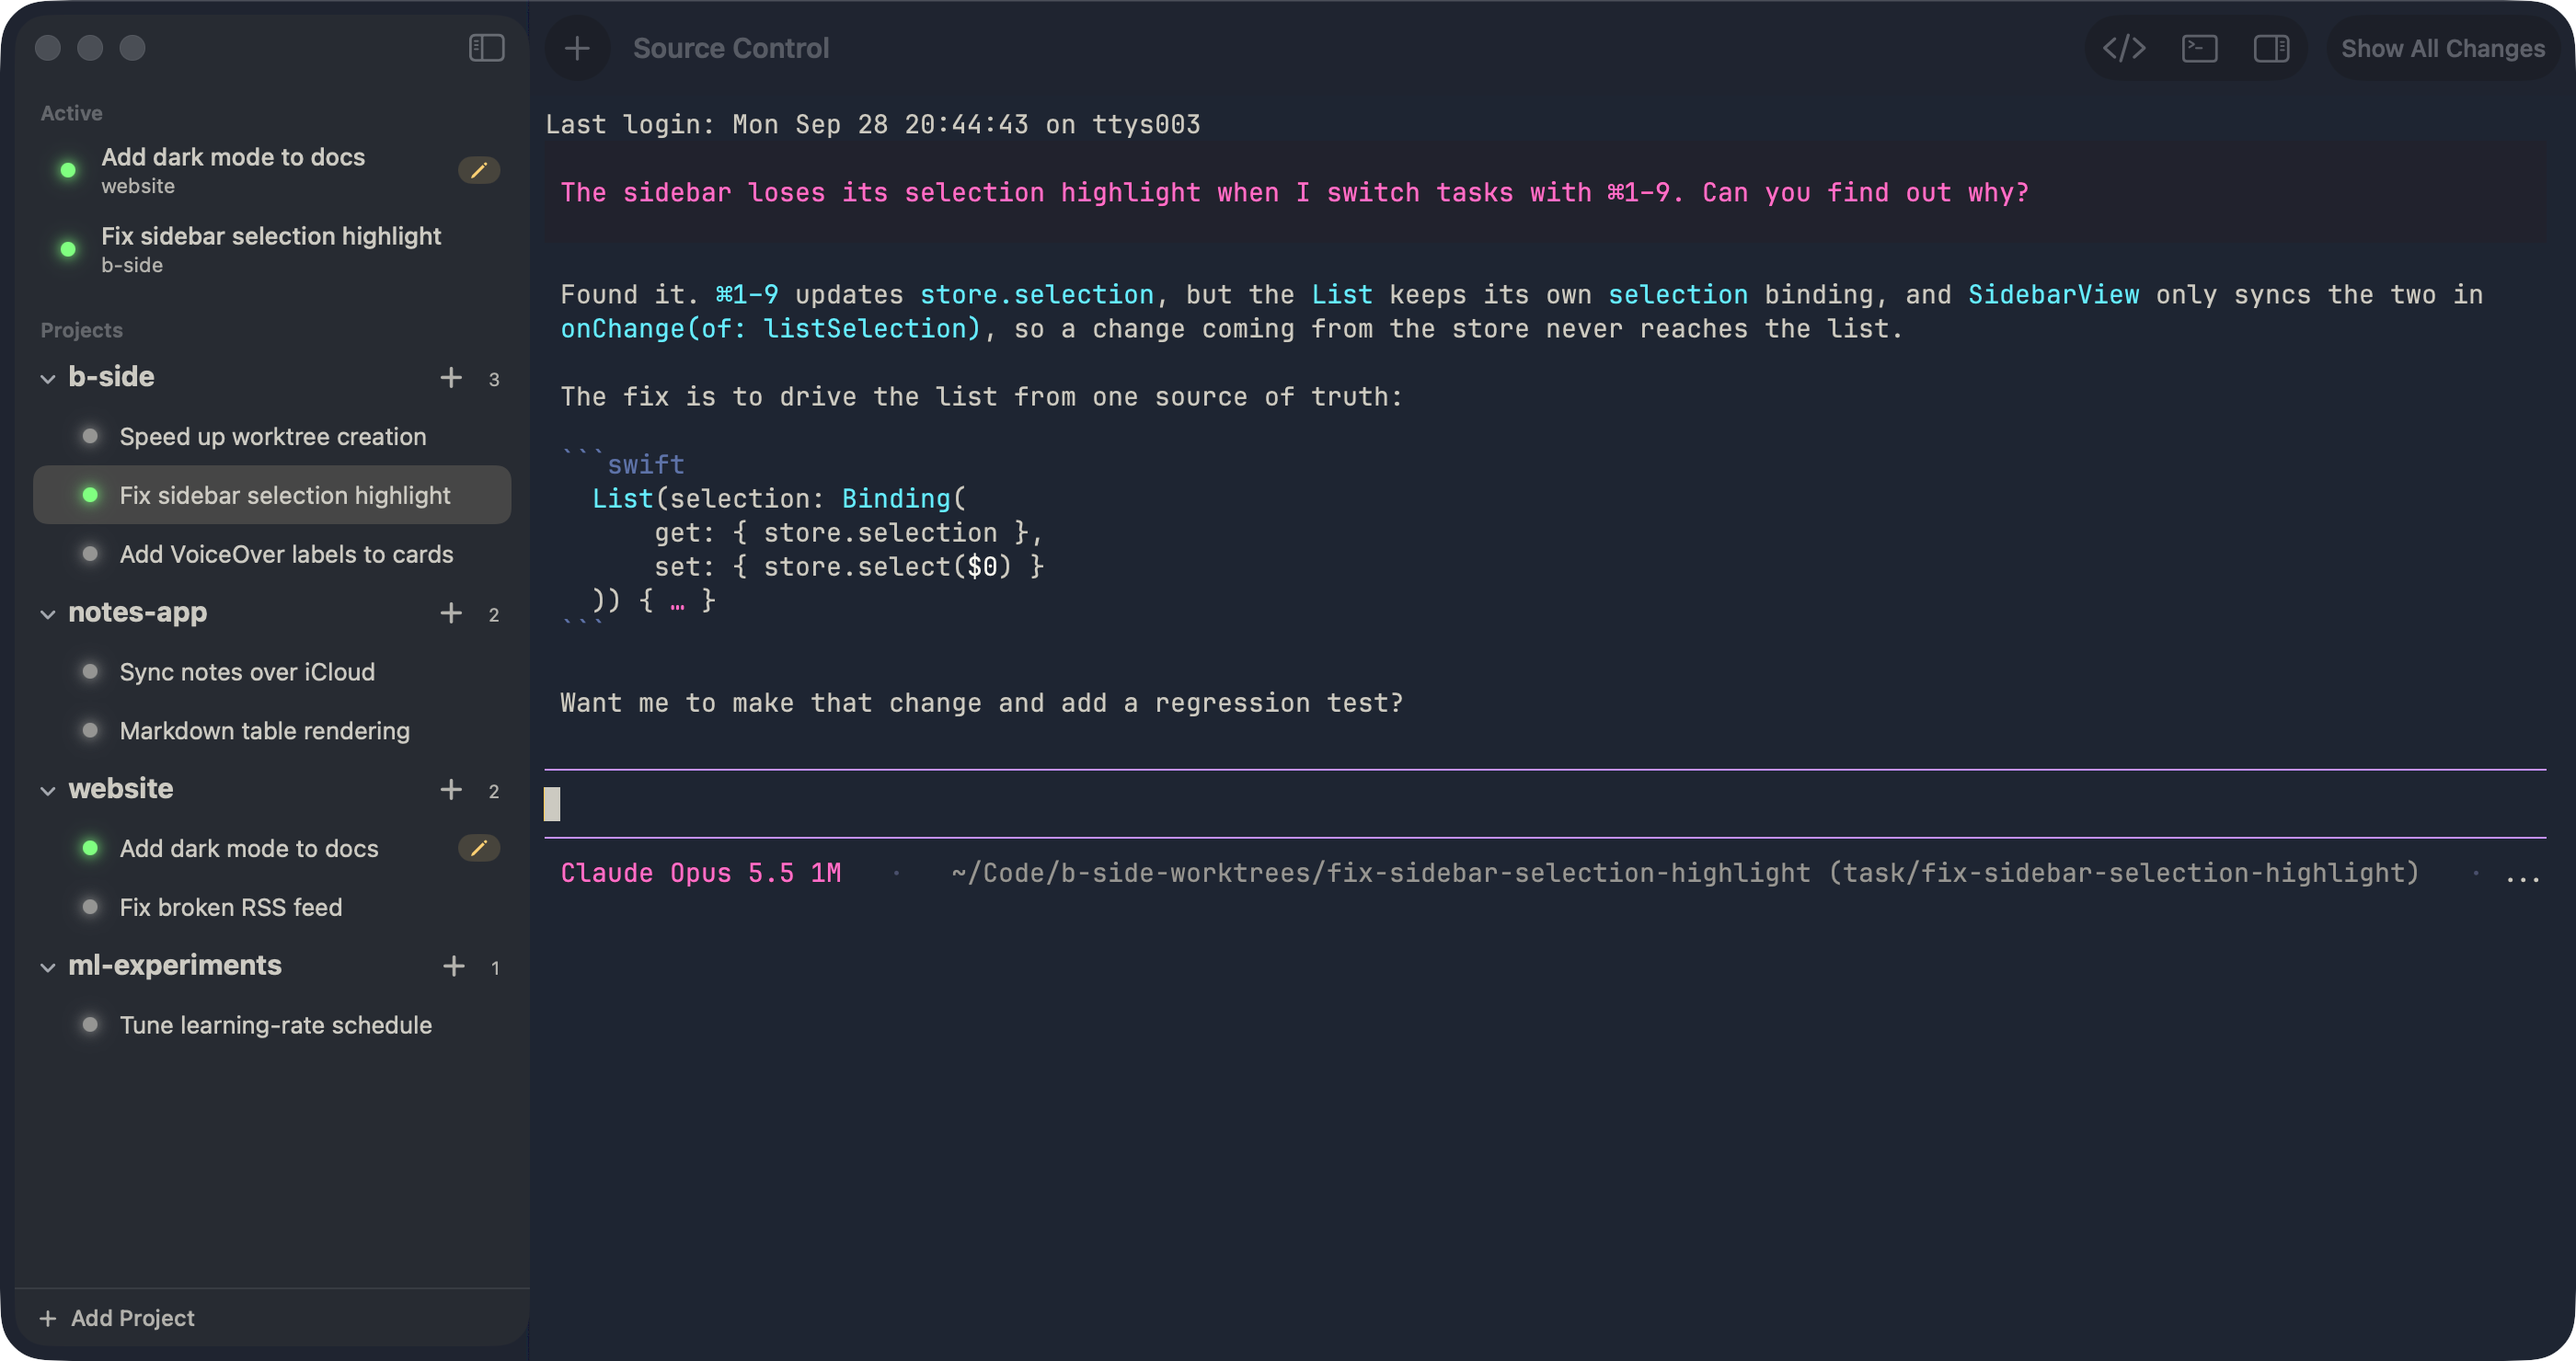
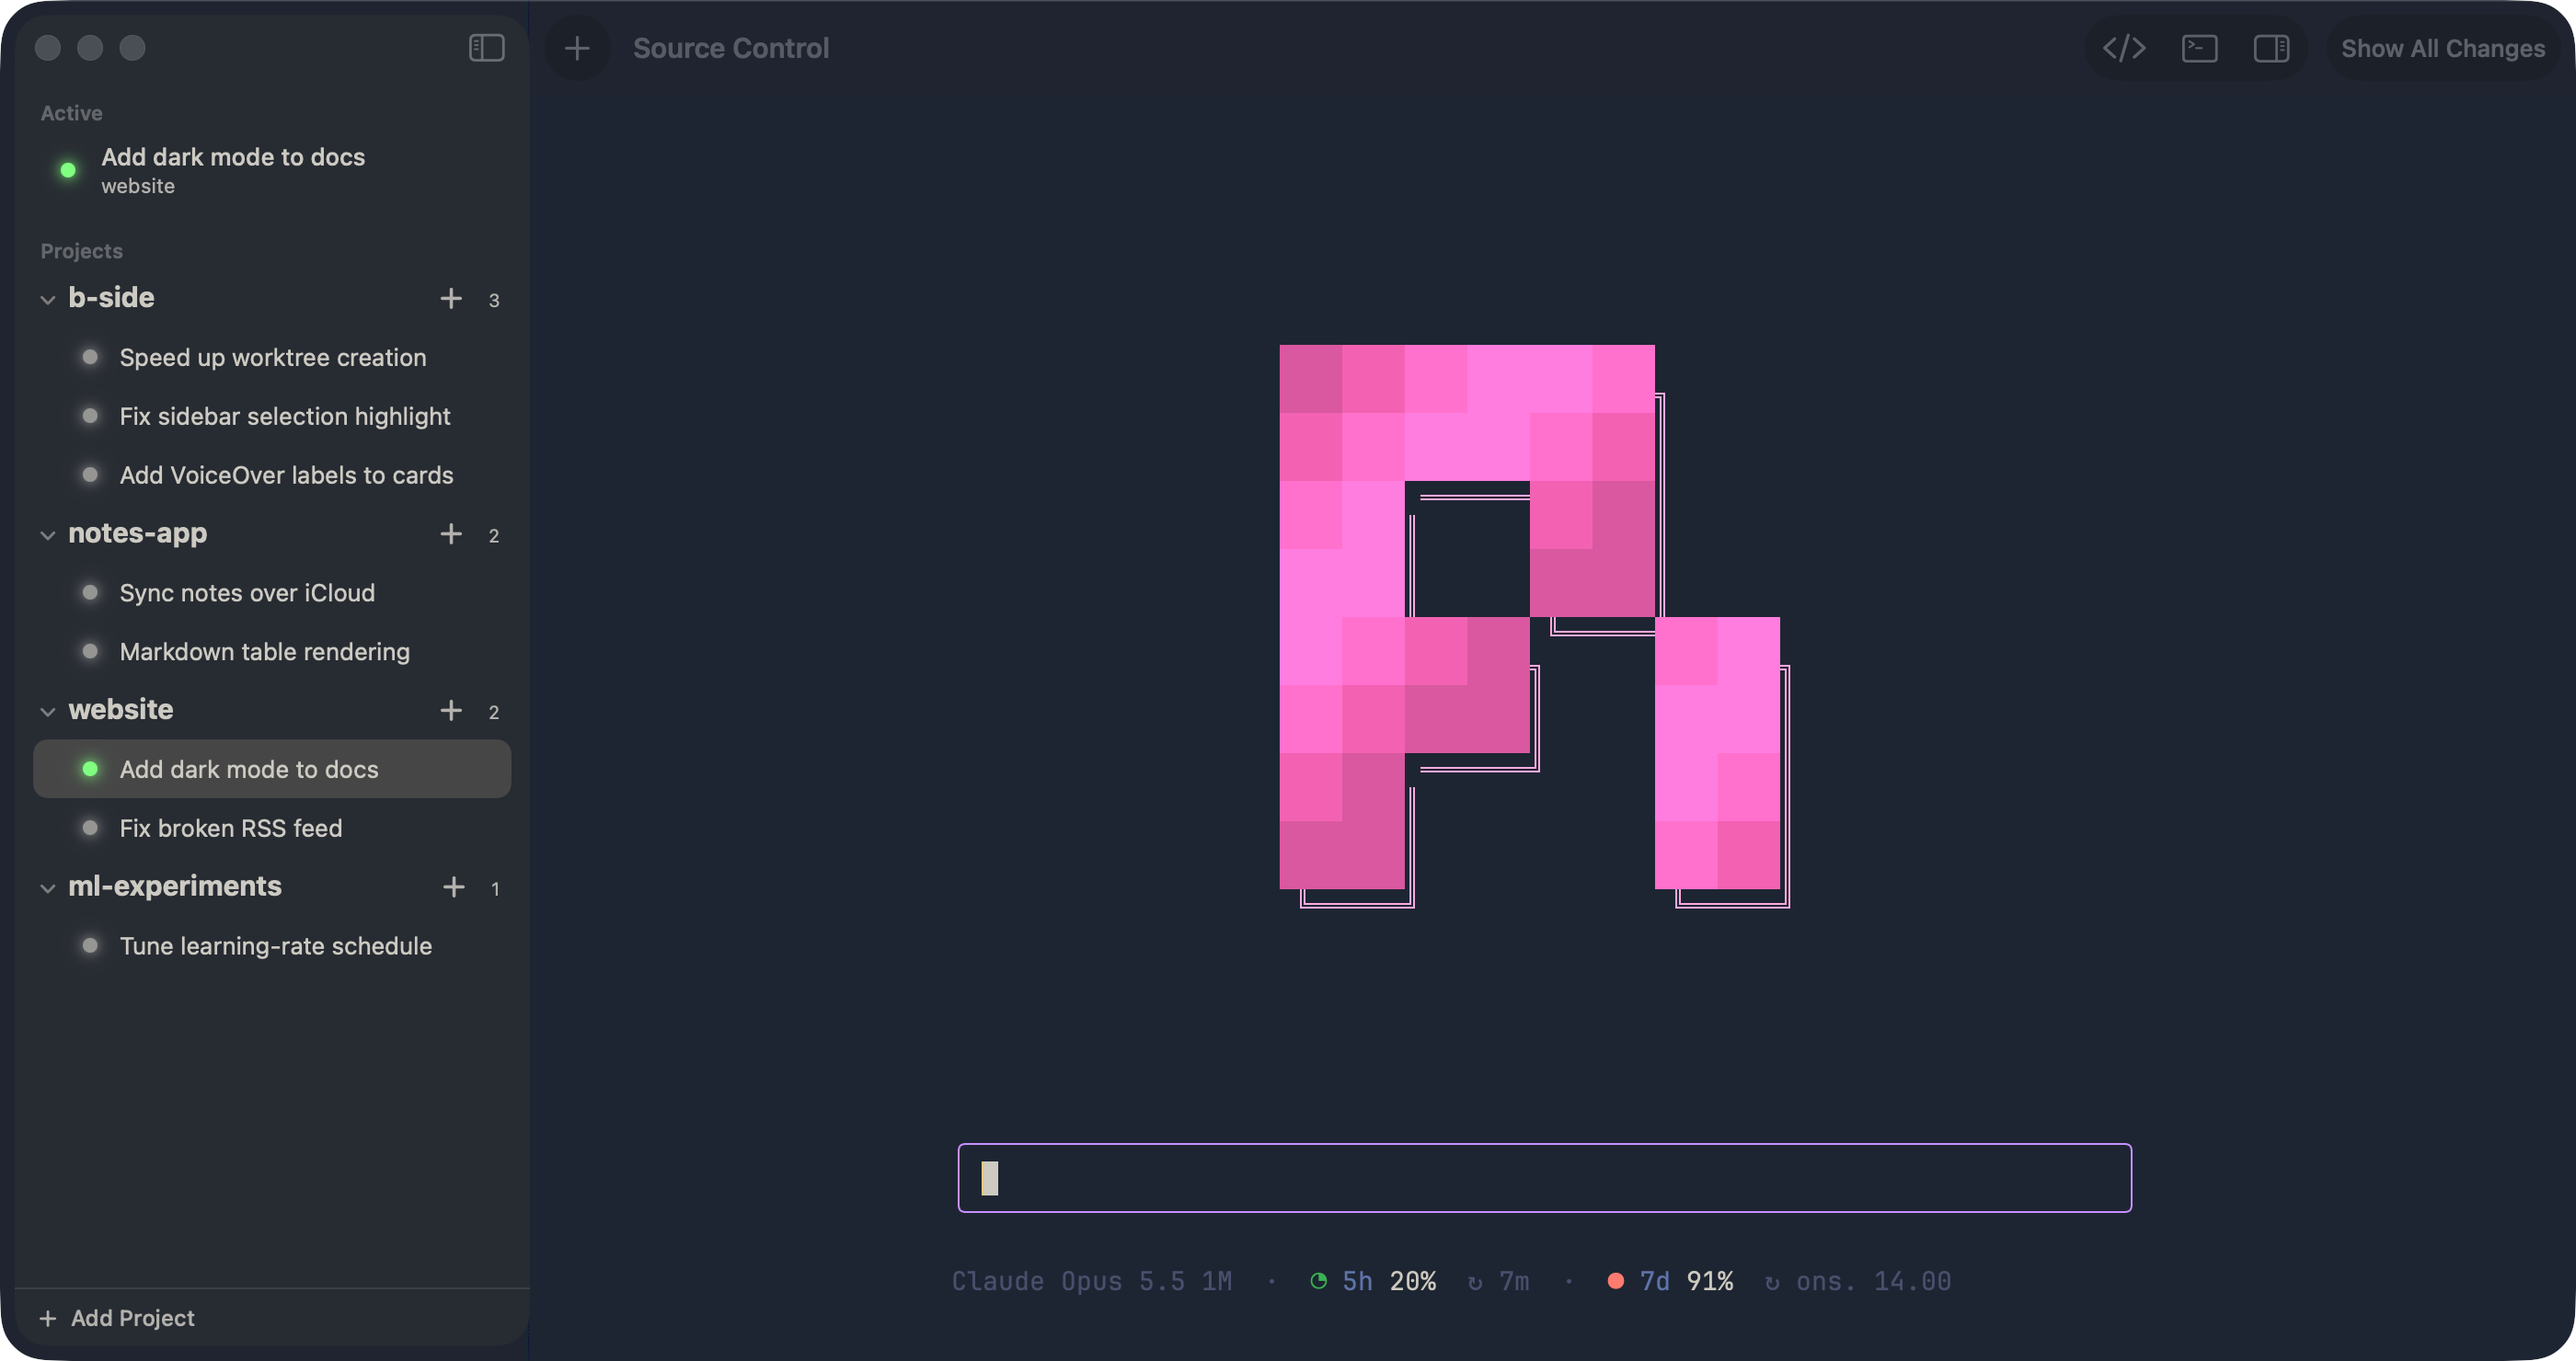
docs(readme): use an empty Pi session and the subagents screenshot

diff --git a/README.md b/README.md
@@ -3,7 +3,7 @@
 A macOS-only Swift app for running Pi agent sessions. Native AppKit/SwiftUI,
 libghostty for terminals, git worktrees as the organising principle.
 
-![B-Side with several projects, a task's Pi session and its uncommitted changes](docs/screenshots/overview.png)
+![B-Side with sample projects and a fresh Pi session](docs/screenshots/pi.png)
 
 Apple Silicon only — the libghostty XCFramework is arm64.
 
@@ -13,10 +13,6 @@ link against it. Check the right one is selected with `xcode-select -p`; it
 should print a path inside `Xcode.app`.
 
 ## Screenshots
-
-Each task gets its own worktree, branch and Pi session:
-
-![A Pi session in a task](docs/screenshots/pi.png)
 
 Subagents a session starts show up as live cards above its terminal:
 
